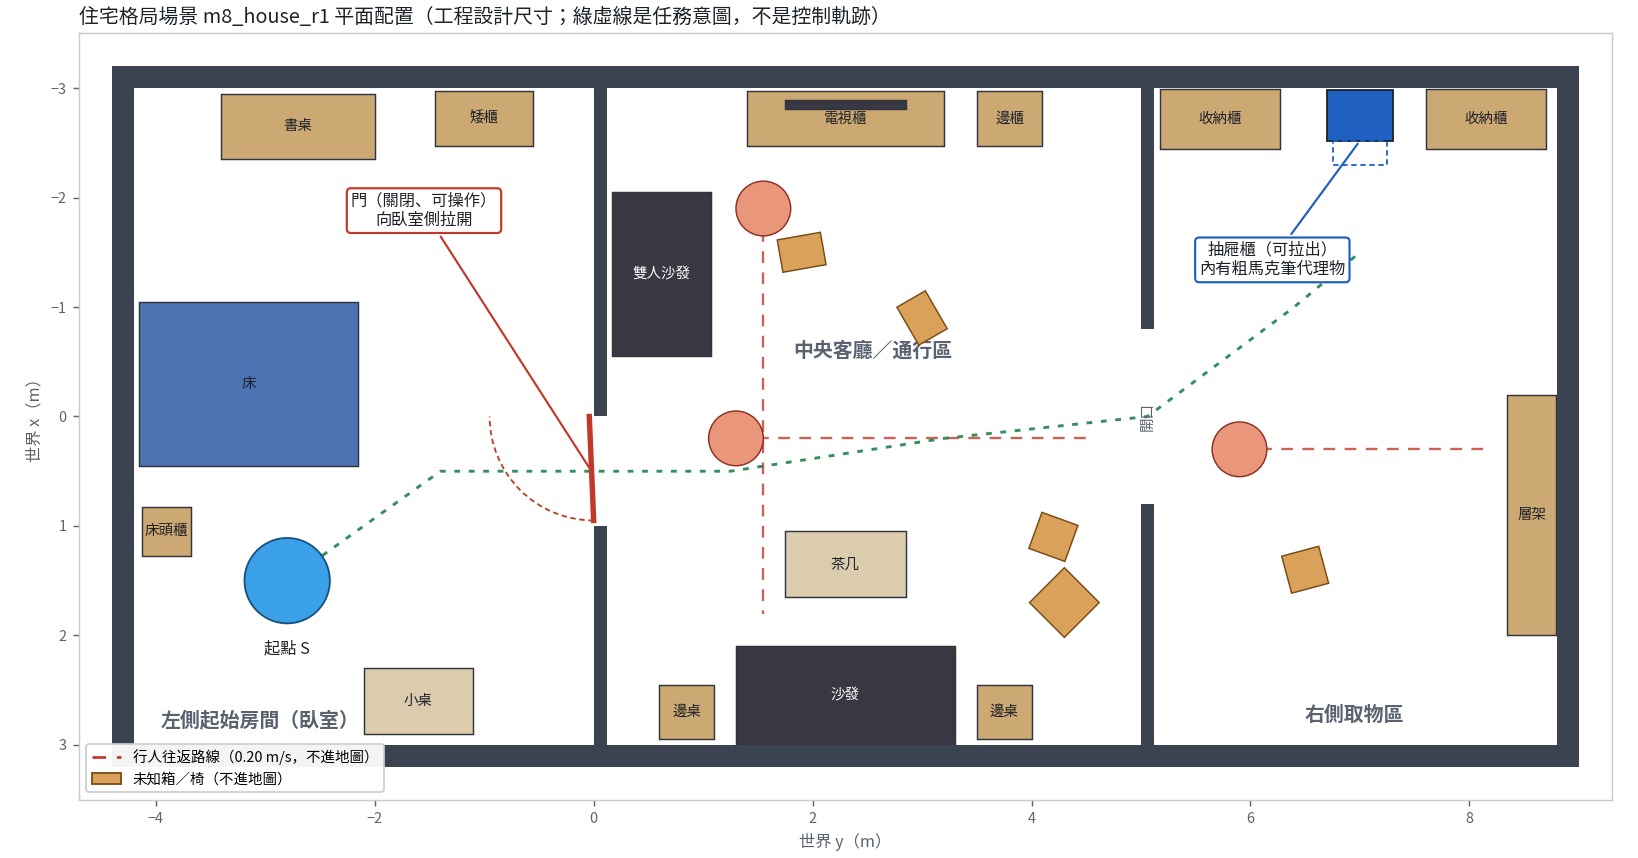
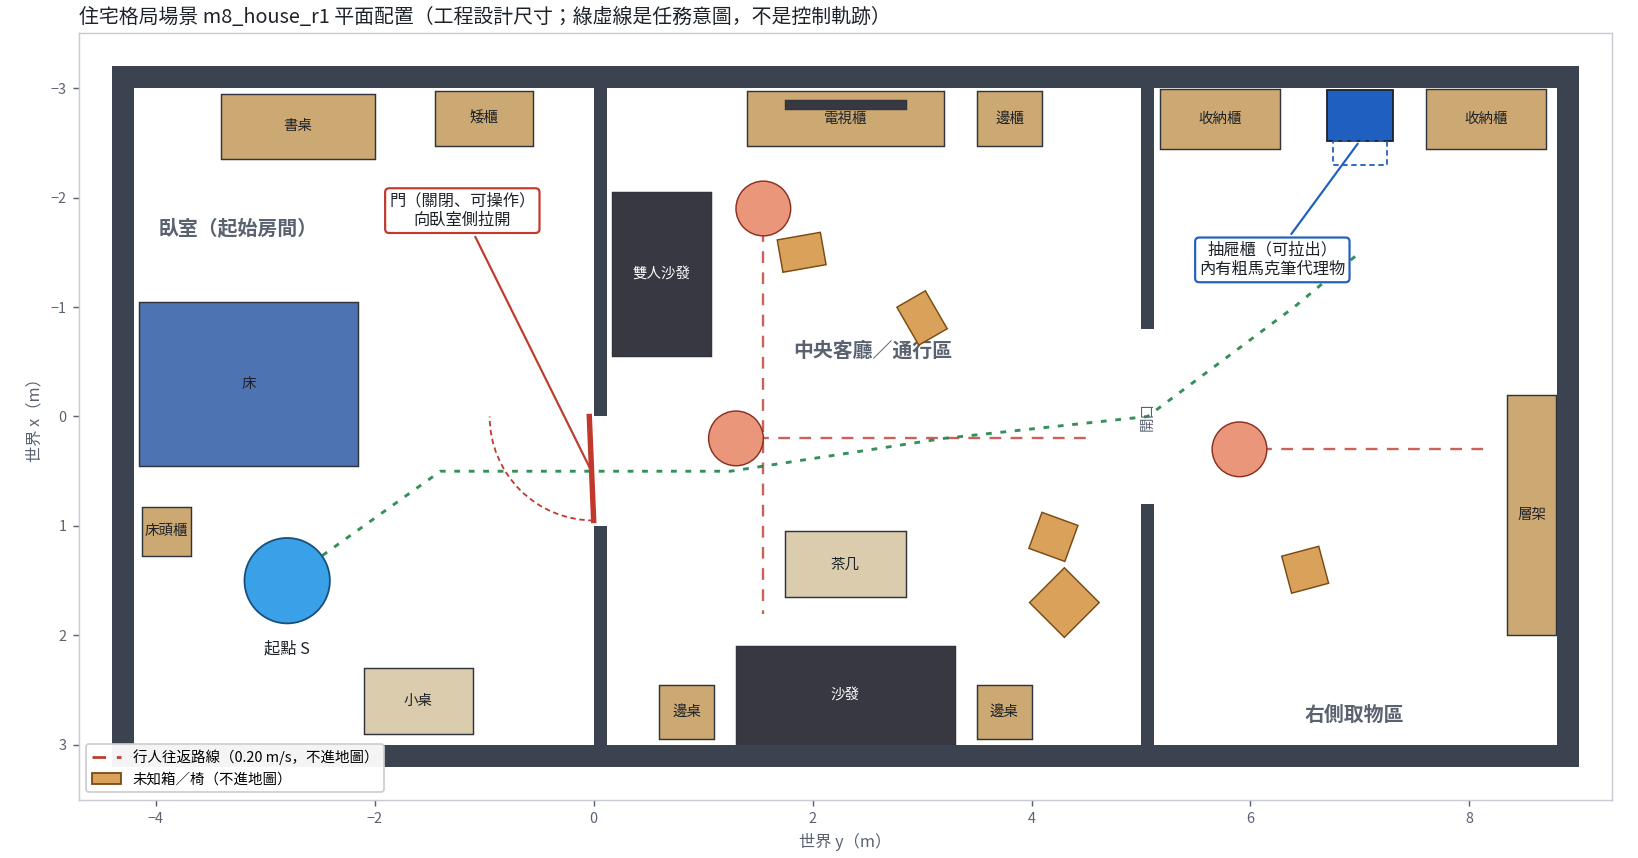
住宅場景平面圖標籤位置修正

diff --git a/evaluation/m8_house_scene_check.py b/evaluation/m8_house_scene_check.py
@@ -177,7 +177,7 @@ def plot(P):
         ax.add_patch(Rectangle((fp[2] + 0.05, fp[1]), fp[3] - fp[2] - 0.1, REG['drawer']['travel'], fc='none', ec='#1f5fbf', ls=(0, (3, 2)), lw=1.0, zorder=4))
         ax.plot([-0.04, 0.0], [0.0, 0.95], color='#c0392b', lw=3, zorder=5)                      # 關閉的門扇（沿 x）
         ax.add_patch(Arc((0.0, 0.0), 1.9, 1.9, theta1=90, theta2=180, color='#c0392b', ls=(0, (3, 2)), lw=1.0, zorder=5))
-        ax.annotate('門（關閉、可操作）\n向臥室側拉開', xy=(-0.02, 0.5), xytext=(-1.55, -1.75), fontsize=9, color=INK, ha='center', arrowprops=dict(arrowstyle='-', color='#c0392b', lw=1.2), zorder=6,
+        ax.annotate('門（關閉、可操作）\n向臥室側拉開', xy=(-0.02, 0.5), xytext=(-1.2, -1.75), fontsize=9, color=INK, ha='center', arrowprops=dict(arrowstyle='-', color='#c0392b', lw=1.2), zorder=6,
                     bbox=dict(boxstyle='round,pad=0.25', fc='white', ec='#c0392b', lw=1.2))
         for o in OB['static_unknown']:
             ax.add_patch(Rectangle((o['y'] - o['size'][1] / 2, o['x'] - o['size'][0] / 2), o['size'][1], o['size'][0], angle=-o['yaw_deg'], rotation_point='center', fc='#d9a15a', ec='#7a4a12', lw=0.8, zorder=4))
@@ -188,7 +188,7 @@ def plot(P):
         ax.add_patch(Circle((s['y'], s['x']), 0.39, fc='#3aa0e8', ec='#16507c', lw=1.0, zorder=5))
         ax.text(s['y'], s['x'] + 0.62, '起點 S', ha='center', va='center', fontsize=9, color=INK, zorder=6)
         ax.plot([s['y'], -1.4, 1.25, 3.2, 5.06, 6.4, 7.0], [s['x'], 0.5, 0.5, 0.2, 0.0, -1.0, P['drawer_front'][0]], color='#1e8449', ls=(0, (2, 3)), lw=1.6, alpha=0.9, zorder=4)
-        for txt, yy, xx in (('左側起始房間（臥室）', -3.05, 2.78), ('中央客廳／通行區', 2.55, -0.6), ('右側取物區', 6.95, 2.72)):
+        for txt, yy, xx in (('臥室（起始房間）', -3.25, -1.72), ('中央客廳／通行區', 2.55, -0.6), ('右側取物區', 6.95, 2.72)):
             ax.text(yy, xx, txt, ha='center', va='center', fontsize=11, color=MUTED, fontweight='bold', zorder=1)
         ax.text(5.06, 0.0, '開口', ha='center', va='center', fontsize=8, color=MUTED, rotation=90, zorder=6)
         ax.set_xlim(-4.7, 9.3)
